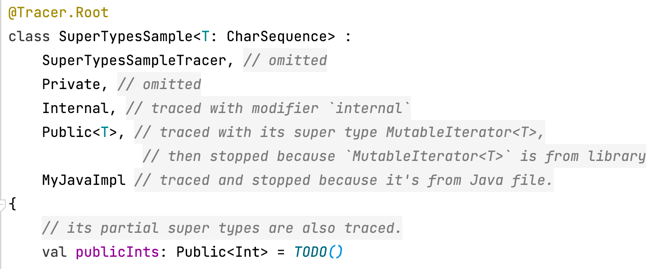
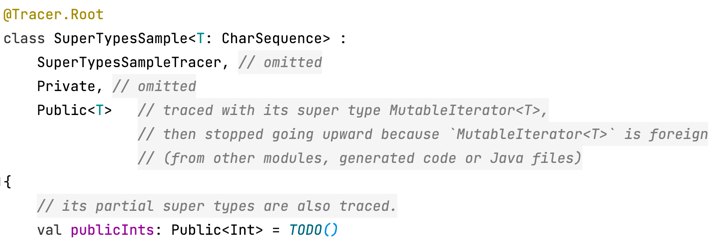
+

diff --git a/content/usage/notes/_index.md b/content/usage/notes/_index.md
@@ -3,24 +3,69 @@ title: Notes
 weight: 4
 ---
 
-* `Kotlin Native` and `Kotlin JS` are not supported. Because they lack `context receiver` which is
+## Common
+- `Kotlin Native` and `Kotlin JS` are not supported. Because they lack `context receiver` which is
   essential in this tool.
 
-* Always inject like `prival val x get() = _X`. Just obey it which is confusing to tyros but 
+- Always inject like `prival val x get() = _X`. Just obey it which is confusing to tyros but 
   automatically understandable when you get familiar.
 
-* `Tracer` is compatible with `ksp 1.7.0-1.0.6` at least. Although mostly it works well with
+- `Tracer` is compatible with `ksp 1.7.0-1.0.6` at least. Although mostly it works well with
 `ksp`, you'd better try to make your `ksp plugin` in a high stable version, since `ksp api` is not
 stable and many bugs are fixed every version.
 
-* Java files are forbidden to use `Tracer`, because I don't want to spend time analyzing those
-outdated things. But it's absolutely safe to reference `java classes and functions` in kotlin files.
+- Java files are forbidden to use `Tracer`, because I don't want to spend time analyzing those
+outdated things. But it's absolutely safe to reference `java classes and functions` in kotlin files.     
+<br>
 
-*, Few generated types fail code inspection, mostly because of the imperfect authoritative type
-inference system. Find their corresponding source properties or super types, then use another type
-or annotate them with`@Tracer.Omitted`.
-e.g.: todo
+## Rare  
+{{< hint type=note >}}
+Problems below are so unusual that you could read it later or when you get puzzled.
+{{< /hint >}}
 
-*, 如果 super abstract class 和 self 均有 Root /Nodes 标记，那么 super abstract class 中最好不要 override self
+* Few generated types fail code inspection, mostly because of the imperfect authoritative type.
+Use another source type or annotate them with `Tracer.Omit`. Unfortunately, I forget those rare 
+cases which should be displayed here. 
+---
+* `*` in alias types are all shifted first and then converted, which, however, may be 
+  **inaccurate**.  
+  For source code
+  ```kotlin
+  interface A<T: Iterable<String>> 
 
-5, alias type 中带 * 可能会因为 multi-bounds 导致结果不准确  
+  interface B<T: List<CharSequence>>
+
+  typealias MyTypeAlias<T> = Pair<A<T>, B<T>>
+  ```
+  The real bound is `List<String>`, which is only one of those difficult cases. With `Tracer`, 
+  `MyTypeAlias<*>` is converted to `Pair<A<*>, B<*>>` first, and 
+  `Pair<A<out Iterable<String>>, B<out List<CharSequence>>>` next. 
+---  
+* Super types with compound args are not limited.  
+
+  Source Code
+  ```kotlin
+  interface Sub<T> : Super<T>
+    where T: Serializable, T: CharSequence
+  
+  interface Super<T>
+  
+  @Tracer.Root
+  class CompoundTypeSample<T> : CompoundTypeSampleTracer
+    where T: CharSequence, T: Serializable
+  {
+    val sub: Sub<T> = TODO()
+  
+    override val _CompoundTypeSample: CompoundTypeSample<*> = this
+  }
+  ```
+  Generated code
+  ```
+    public val CompoundTypeSampleTracer.`_Sub‹↓‹Serializable，CharSequence››` 
+      inline get() = `_CompoundTypeSample`.`sub` as Sub<*>
+  
+    public val CompoundTypeSampleTracer.`_Super‹↓‹Serializable，CharSequence››` 
+      inline get() = `_CompoundTypeSample`.`sub` as Super<*>
+  ```
+  
+  `*` in `Sub<*>` has two bounds, which, however, can't be expressed in `Super<*>`. 

diff --git a/content/usage/naming rules/_index.md b/content/usage/naming rules/_index.md
@@ -1,0 +1,71 @@
+---
+title: Property naming rules
+weight: 2
+---
+
+## Type symbols   
+  `suspend (MutableMap<in String, out CharSequence>) -> Comparable<*>?` would be converted to
+  `⍒❨MutableMap‹↑String，↓CharSequence›❩-›Comparable‹✶›？`. Unfortunately, android forbids most 
+  original common symbols in property names, making me choose these substitutes  `⍒` `❨` `❩` 
+  `-›` `‹` `›` `？` `，` `✶` `↑` `↓`.
+
+  Wildcard `*` would be tried converting to its bound with the covariance if needed, like from
+  from `Array<*>` to `Array‹↓Any？›` and `List<*>` to `List‹Any？›`. `Comparable<*>` is not
+  convertible because its source code is `Comparable<in T>`.
+  <br><br>
+
+## Generic type
+  * Single bound
+  {{< columns size=small >}}
+  ![](generic(1).png)<--->![](_generic(1).png)
+  {{< /columns >}}
+  ---
+  * Multiple bounds   
+  {{< columns size=small >}}
+  ![](generic(2).png) <---> ![](_generic(2).png)
+  {{< /columns >}}
+  ---
+  * Covariance(↓) may be needed.
+  {{< columns size=small >}}
+  ![](generic(3).png) <---> ![](_generic(3).png)
+  {{< /columns >}}
+<br>
+
+## Position qualifier
+  * `__` : beginning with double `_` tells it's from outside. See 
+    [Annotations.Nodes](https://apollokwok.github.io/TracerTutorial/usage/annotations/nodes.mp4) if
+    you forget other code.
+    <img src="../comprehensiveHouse.png" height=220/>  
+    <img src=underline.png width=300/>
+  ---
+  * `˚`: as shown in the image above, `˚House` means that `House` is the nearest owner with
+     `@Tracer.Root` or `Tracer.Nodes` of that `WifiRouter`. I consider this as level tag.
+  ---
+  * Same types would be traced with `owner name` or `property name` further to be 
+    distinguished. There would be `by` inside if one same type is super and from the trace start point. 
+  {{< columns size=small >}}
+  ![](foo.png)<--->![](_foo.png)
+  {{< /columns >}} 
+  ---
+  * `nullability` `suspend` `generic name` and `variance` are omitted in type equality 
+  comparison to hint better. 
+  {{< columns size=small >}}
+  ![](lambda.png)<--->![](lambda(1).png) 
+  {{< /columns >}}
+  <img src=_lambda.png /> 
+  --- 
+  * Elements of common types or common types embedded in common containers are always traced with 
+     `owner name` and `property name` to be clear like `_String_X_name`.
+
+     * Common types      
+       `String` `Any` `Short` `ShortArray` `UShort` `UShortArray` `Int` `IntArray` `UInt` `UIntArray`    
+       `Long` `LongArray` `ULong` `ULongArray` `Byte` `ByteArray` `UByte` `UByteArray`     
+       `Float` `FloatArray` `Double` `DoubleArray` `Boolean` `BooleanArray` `Char` `CharArray`      
+   
+     * Common containers  
+       `Pair` `Triple` `Array` `Sequence`    
+       `Iterable` `Collection` `List` `Set` `Map`    
+       `MutableIterable` `MutableCollection` `MutableList` `MutableSet` `MutableMap`    
+     
+     * Example    
+     ![](common.png)![](_common.png)

diff --git a/content/usage/annotations/_index.md b/content/usage/annotations/_index.md
@@ -38,10 +38,10 @@ If `Living room` needs the quilt from `master bedroom`'s`Bed`, use
 
 {{< expand "Tip">}}
 `Tracer.Tip` represents the trace end, meaning elements of annotated classes wouldn't be traced 
-insides. Furthermore, classes are considered as `Tracer.Tip` by default if they are from other 
-modules or Java files, or with rebuilt symbols (type parameters, value parameters in the 
-constructor, abstract or open). Like `Tracer.Root` classes, they should avoid being exploring too 
-insides if qualified.
+insides. Furthermore, classes are considered as `Tracer.Tip` by default if they are foreign (from 
+other modules, generated code, or Java files), or with rebuilt symbols (type parameters, value 
+parameters in the constructor, abstract or open). Like `Tracer.Root` classes, they should avoid 
+being exploring too insides if qualified.
 
 {{< columns size=small >}}
 <img src=tip.png><---><img src=_tip.png>
@@ -52,7 +52,7 @@ insides if qualified.
 Properties and super types with `@Tracer.Omit` would be omitted, which is generally used 
 with some unsupported new syntaxes, e.g. `T & Any` before `ksp 1.8.0-1.0.9`(exclusive), 
 and `context receiver`. Super type trace rules are later explained on page 
-[Details](https://apollokwok.github.io//TracerTutorial/usage/details/#partial-super-types-are-traceable).   
+[Details](https://apollokwok.github.io//TracerTutorial/usage/details/#partial-traceable-super-types).
 <br> 
 {{<video src="omit" >}}
 {{< /expand >}}

diff --git a/content/usage/details/_index.md b/content/usage/details/_index.md
@@ -10,7 +10,7 @@ weight: 3
   ![](_generic.png)
   <br><br>
 
-## Built times of traced element types would be displayed.
+## Built times of traced element types would be displayed
   ![](builtTimesComment.png)
   <br><br>
 
@@ -28,9 +28,8 @@ weight: 3
   {{<video src=option >}}
   <br><br>
 
-## Var   
-
-  Source code
+## Var
+  **Source code**
   ```kotlin
   @Tracer.Root
   class VarSample : VarSampleTracer{
@@ -41,7 +40,7 @@ weight: 3
   }
   ```
 
-  Generated code    
+  **Generated code**    
   ```kotlin
   public var VarSampleTracer._Foo 
     inline get() = _VarSample.foo as Foo    
@@ -50,7 +49,7 @@ weight: 3
     }
   ```
 
-  Reference sample   
+  **Reference sample**   
   ```kotlin 
   context (VarSampleTracer)
   class Baz{
@@ -62,7 +61,7 @@ weight: 3
   }
   ```  
 
-  Expected reference after authoritative support.
+  **Expected reference after authoritative support.**
   ```kotlin
   context (VarSampleTracer)
   class Baz{
@@ -71,7 +70,7 @@ weight: 3
   ```
  <br>
 
-## Abstract / Open class elements
+## Abstract / open class elements 
 Elements inside abstract and open classes are all traced with level tags (`_˚NonFinalSample` in 
 this case) to be distinguished in subclasses.  
 

diff --git a/content/setup/_index.md b/content/setup/_index.md
@@ -6,7 +6,7 @@ weight: 2
 
 Configure your `build.gradle` as below.
 
-## Add the ksp plugin
+## Ksp plugin
 ```groovy
 plugins{
     // Assuming your kotlin version is `1.7.21`, here uses the latest ksp plugin version beginning 
@@ -16,7 +16,7 @@ plugins{
 ```
   
 &nbsp;
-## Add source sets
+## Source sets
 Skip this step if your ksp plugin version is '1.8.0-1.0.9' or higher.  
 This part is different if you are using IntelliJ IDEA and KSP in a Gradle plugin. 
 (See [ksp quickstart](https://kotlinlang.org/docs/ksp-quickstart.html#make-ide-aware-of-generated-code))
@@ -29,7 +29,7 @@ kotlin.sourceSets {
 ```
 
 &nbsp;
-## Configure tracer
+## Tracer
 Add this part directly, rather than insert messily.
 ```groovy
 //region tracer

diff --git a/content/myWords/_index.md b/content/myWords/_index.md
@@ -4,8 +4,8 @@ weight: 10
 ---
 
 This tutorial is very clear and worth learned by most authoritative IT tutorials, which is mainly 
-because of bosses' overlooking rather than myself. 
-- Let better developers write tutorials. Most tutorial code I ever seen are half redundant. 
+because of bosses' overlooking rather than myself. Below is my advice. 
+- Let better developers write tutorials. Most tutorial code I've ever seen are half redundant. 
 - Embed short videos with speeding up, effect display, and concise hints instead of all voluminous 
   texts.  
 - Inspire them by relating their salaries to feedbacks.

diff --git a/content/_index.md b/content/_index.md
@@ -1,2 +1,7 @@
-With `Kotlin-JVM` and `KSP`, `Tracer` generates extensional properties orienting to interior 
-traceable elements, which realizes dependency injection with little configuration.
+With `Kotlin-JVM` and `KSP`, `Tracer` generates extensional properties orienting to interior
+traceable elements, which realizes dependency injection with little configuration. 
+{{< columns size=small >}}
+![](singleBedroomHouse.png)
+<--->
+{{< video src="preview" height="850">}}
+{{< /columns >}}
